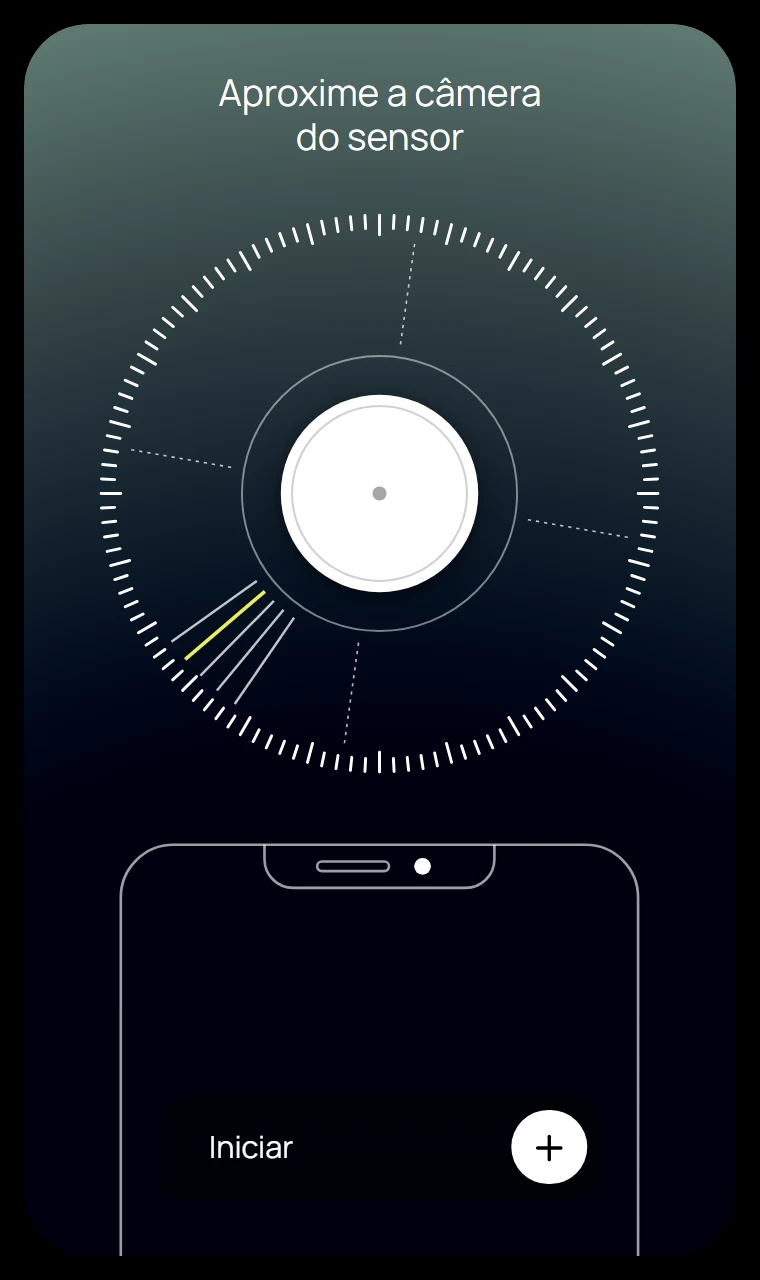
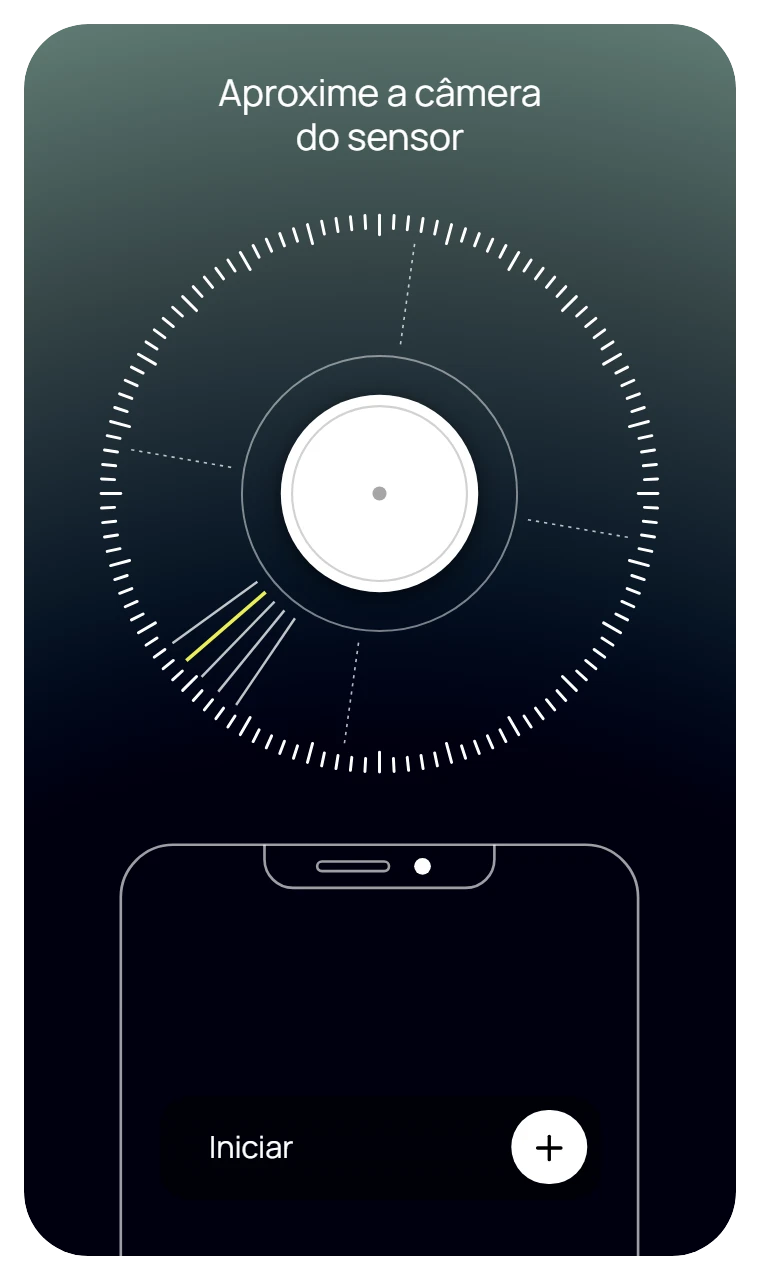
fix: defeitos da revisao isolada
- osciloscopio e TV: o traco ignorava a marca, porque oklch era lido como RGB
- command-search: a busca da demo tambem procura nos atalhos da tela
- vintage-tv-frame cabe no palco do celular e desligar para o som
- contorno do motion nao cruza mais o titulo fixo
- ficha sem barras de rolagem ao puxar o page-curl; sensor-dial sem retangulo preto

diff --git a/registry/vintage/ui/vintage-oscilloscope.tsx b/registry/vintage/ui/vintage-oscilloscope.tsx
@@ -218,15 +218,35 @@ function lerBandas(amostras: ArrayLike<number>, st: Estado): Bandas {
   return { bass, mid, high, volume, kick, snare, hat };
 }
 
+const MATIZES = new Map<string, number>();
+
+/**
+ * Os canais da cor, pintando um pixel. A cor computada pode vir em `oklch()` ou `color-mix`, e
+ * ler os números dela como RGB dava sempre a mesma matiz, em qualquer marca.
+ */
+function canaisDe(cor: string): [number, number, number] | null {
+  const ctx = document.createElement("canvas").getContext("2d", { willReadFrequently: true });
+  if (!ctx) return null;
+  ctx.fillStyle = cor;
+  ctx.fillRect(0, 0, 1, 1);
+  const [r, g, b] = ctx.getImageData(0, 0, 1, 1).data;
+  return [r, g, b];
+}
+
 /** A matiz do fósforo, resolvida do token. Cai no verde de tubo se falhar. */
 function matizDe(el: HTMLElement | null): number {
   if (!el || typeof window === "undefined") return 120;
   const cor = getComputedStyle(el).color;
-  const m = cor.match(/-?\d+(\.\d+)?/g);
-  if (!m || m.length < 3) return 120;
-  const r = Number(m[0]) / 255;
-  const g = Number(m[1]) / 255;
-  const b = Number(m[2]) / 255;
+  const guardada = MATIZES.get(cor);
+  if (guardada !== undefined) return guardada;
+  const canais = canaisDe(cor);
+  if (!canais) return 120;
+  const matiz = matizDosCanais(canais[0] / 255, canais[1] / 255, canais[2] / 255);
+  MATIZES.set(cor, matiz);
+  return matiz;
+}
+
+function matizDosCanais(r: number, g: number, b: number): number {
   const max = Math.max(r, g, b);
   const min = Math.min(r, g, b);
   const d = max - min;

diff --git a/src/app/catalog.tsx b/src/app/catalog.tsx
@@ -877,6 +877,7 @@ export const CATALOG: CatalogItem[] = [
   },
   {
     name: "filter-bar",
+    // palco-check: a barra fica no alto de propósito e a lista reserva altura embaixo, para a barra não andar ao filtrar
     title: "Filter Bar",
     type: "ui",
     family: "controles",
@@ -1713,6 +1714,7 @@ export const CATALOG: CatalogItem[] = [
   },
   {
     name: "fog-tree",
+    // palco-check: é fundo e sangra: no ladrilho e na ficha preenche o palco, a caixa do preview não vale
     title: "Fog Tree",
     type: "ui",
     family: "efeitos",
@@ -2926,6 +2928,7 @@ export const CATALOG: CatalogItem[] = [
   },
   {
     name: "device-frame",
+    // palco-check: as setas de pose somam altura embaixo; o aparelho é que fica no centro
     title: "Device Frame",
     type: "ui",
     family: "conteudo",

diff --git a/src/app/demos/vintage-tv-frame-demo.tsx b/src/app/demos/vintage-tv-frame-demo.tsx
@@ -38,16 +38,19 @@ export default function VintageTvFrameDemo() {
   const analyser = useLoop(tocando && ligada && ativo);
 
   return (
-    <div className="flex h-full w-full flex-col items-center justify-center gap-3 p-4">
-      <div className="w-[300px]">
+    <div className="flex h-full w-full flex-col items-center justify-center gap-2 p-2">
+      <div className="w-[260px]">
         <VintageTvFrame
           title="VISANT TV"
-          width={300}
+          width={260}
           showTimecode="00:12:34"
           program={CANAIS[canal].modo}
           programActive={ativo}
           programAnalyser={analyser}
-          onPowerToggle={setLigada}
+          onPowerToggle={(v) => {
+            setLigada(v);
+            if (!v) setTocando(false);
+          }}
         />
       </div>
 

diff --git a/src/app/demos/command-search-demo.tsx b/src/app/demos/command-search-demo.tsx
@@ -17,12 +17,19 @@ const ATALHOS = [
 export default function CommandSearchDemo() {
   const buscar = React.useCallback(async (q: string) => {
     const needle = q.toLowerCase();
-    return FILA.filter((l) => l.nome.toLowerCase().includes(needle)).map((l) => ({
+    const atalhos = ATALHOS.filter((a) => `${a.title} ${a.subtitle}`.toLowerCase().includes(needle)).map(({ id, title, subtitle }) => ({
+      id,
+      title,
+      subtitle,
+      type: "atalho",
+    }));
+    const fila = FILA.filter((l) => l.nome.toLowerCase().includes(needle)).map((l) => ({
       id: l.id,
       title: l.nome,
       subtitle: ROTULO_FILTRO[l.status],
       type: "job",
     }));
+    return [...atalhos, ...fila];
   }, []);
 
   return (

diff --git a/src/app/skills/hub/demo-motion.tsx b/src/app/skills/hub/demo-motion.tsx
@@ -297,7 +297,7 @@ export function DemoMotion() {
               <div
                 aria-hidden="true"
                 data-lado={l.errado ? "errado" : "certo"}
-                className="relative h-56 overflow-hidden rounded-tile bg-casa-bg sm:h-72 lg:h-[clamp(18rem,52svh,30rem)]"
+                className="relative isolate h-56 overflow-hidden rounded-tile bg-casa-bg sm:h-72 lg:h-[clamp(18rem,52svh,30rem)]"
               >
                 <Palco key={cena} cena={cena} errado={l.errado} fase={fase} seco={seco} />
                 <div className="pointer-events-none absolute inset-0 z-20 rounded-tile" style={{ boxShadow: `inset 0 0 0 1.5px var(${l.errado ? "--marca-antes" : "--marca-depois"})` }} />

diff --git a/src/app/ComponentFocus.tsx b/src/app/ComponentFocus.tsx
@@ -572,7 +572,7 @@ export function ComponentFocus({
              * O palco cresce com a peça, com piso — não com a tela. Esticar até
              * o fim da viewport dava 200px de vazio em cima de peça pequena.
              */
-            className="flex min-h-[min(48vh,420px)] items-center justify-center overflow-auto px-5 pb-8 pt-16 sm:px-8 lg:min-h-[min(72vh,640px)]"
+            className="flex min-h-[min(48vh,420px)] items-center justify-center overflow-hidden px-5 pb-8 pt-16 sm:px-8 lg:min-h-[min(72vh,640px)]"
           >
             {preset.px ? (
               /*

diff --git a/src/app/demos/sensor-dial-demo.tsx b/src/app/demos/sensor-dial-demo.tsx
@@ -8,7 +8,7 @@ import { SensorDial } from "../../../registry/visant/ui/sensor-dial";
 
 export default function SensorDialDemo() {
   return (
-    <div className="grid h-full w-full place-items-center overflow-hidden bg-black p-3">
+    <div className="grid h-full w-full place-items-center overflow-hidden p-3">
       <div
         className="h-full max-h-[40rem] w-full max-w-[24rem] overflow-hidden rounded-[2rem]"
         style={{ "--sensor-sheet": "oklch(0.72 0.05 165)", "--sensor-hit": "oklch(0.92 0.17 110)", "--sensor-title": "white" } as React.CSSProperties}

diff --git a/src/app/controls.tsx b/src/app/controls.tsx
@@ -420,7 +420,7 @@ export function Customize({
           onClick={() => setAbertoExtra((v) => !v)}
           className="self-start rounded-control py-1 text-casa-sm text-casa-fg-2 transition-colors [transition-duration:var(--dur-fast)] hover:text-casa-fg pointer-coarse:min-h-11"
         >
-          {abertoExtra ? "Menos controles" : `Mais ${extras.length} controles`}
+          {abertoExtra ? "Menos controles" : `Mais ${extras.length} ${extras.length === 1 ? "controle" : "controles"}`}
         </button>
       ) : null}
     </section>

diff --git a/src/app/demos/filter-bar-demo.tsx b/src/app/demos/filter-bar-demo.tsx
@@ -44,6 +44,7 @@ export default function FilterBarKitDemo() {
               </motion.li>
             ))}
           </AnimatePresence>
+          {filtrada.length === 0 ? <li className="px-4 py-2 text-sm text-muted-foreground">Nada com esse filtro.</li> : null}
         </ul>
       </div>
     </div>
